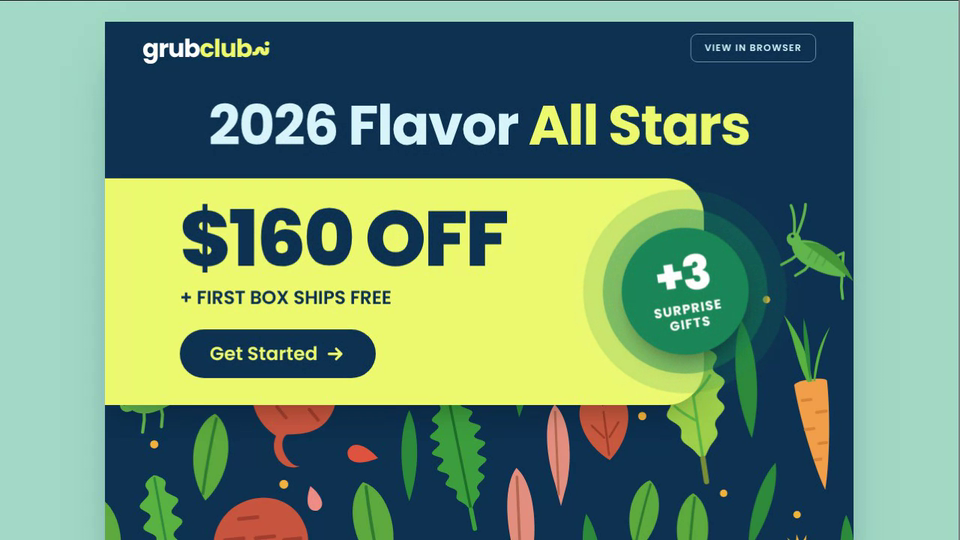
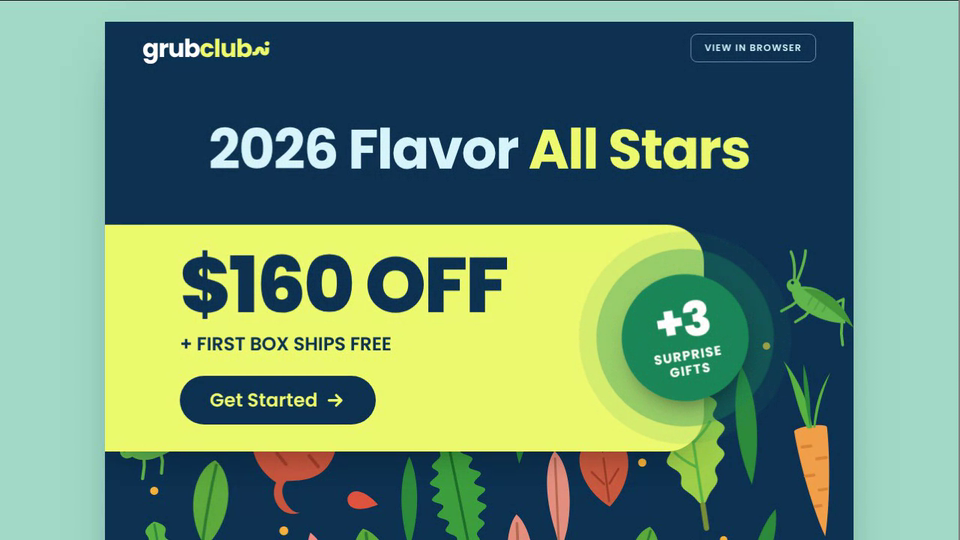
Flavor All Stars: more spacing above and below the hero title
Claude-Session: https://claude.ai/code/session_01AHeBdyyngqxczdkvkomgou

diff --git a/flavor-all-stars/index.html b/flavor-all-stars/index.html
@@ -96,8 +96,8 @@ footer p{margin:1.8cqw 0 0;max-width:62cqw;font-size:max(8.5px,1.05cqw);line-hei
 /* ===== 1 flavor all stars ===== */
 #e1 .hero{position:relative;background:var(--navy);padding:0 0 20cqw;isolation:isolate}
 #e1 .hero .pat{position:absolute;inset:0;z-index:-1;background:var(--navy)}
-#e1 h1{margin:3.2cqw 5cqw 0;text-align:center;font-size:max(30px,7.4cqw);color:var(--egg)}
-#e1 .panel{margin-top:3.4cqw}
+#e1 h1{margin:6.4cqw 5cqw 0;text-align:center;font-size:max(30px,7.4cqw);color:var(--egg)}
+#e1 .panel{margin-top:6.4cqw}
 #e1 .badge{right:-6cqw;top:50%;margin-top:-8.5cqw}
 #story{position:relative;background:var(--bean);color:var(--egg);padding:7cqw 6cqw 6cqw;text-align:center;overflow:hidden}
 #intro{margin:0 auto;max-width:64cqw;font-size:max(14px,2.25cqw);line-height:1.6;font-weight:400}
